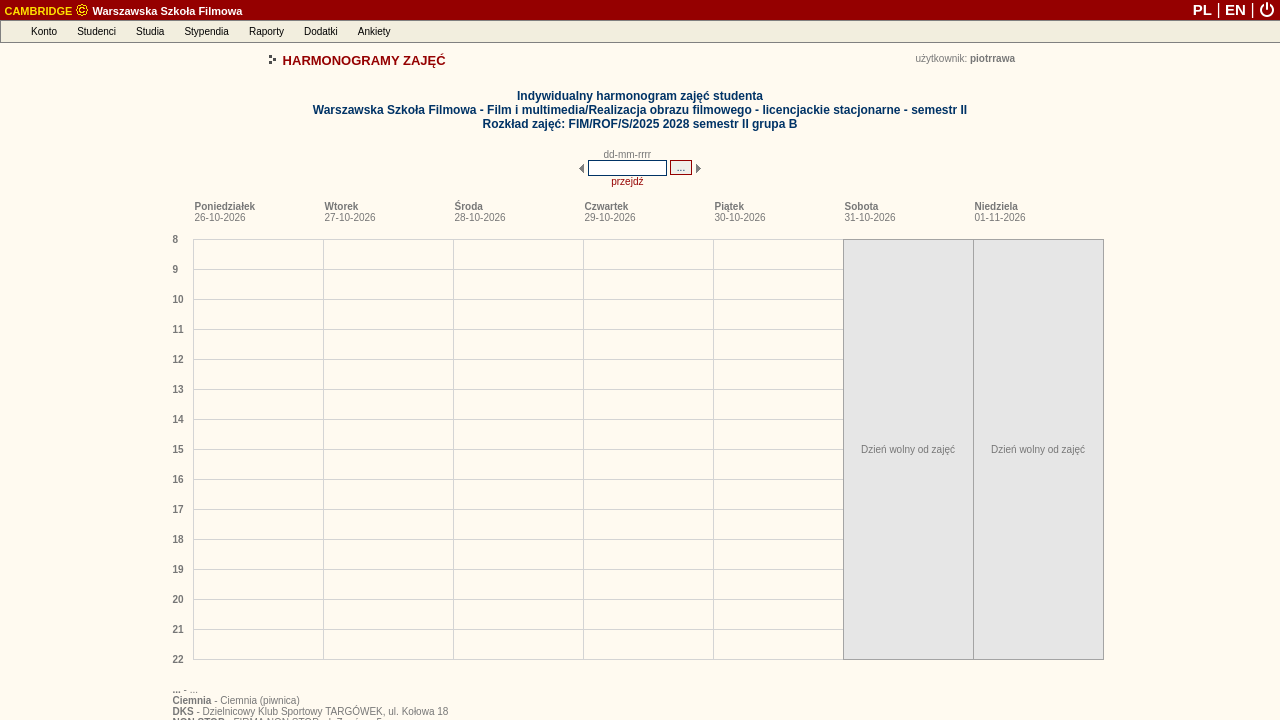
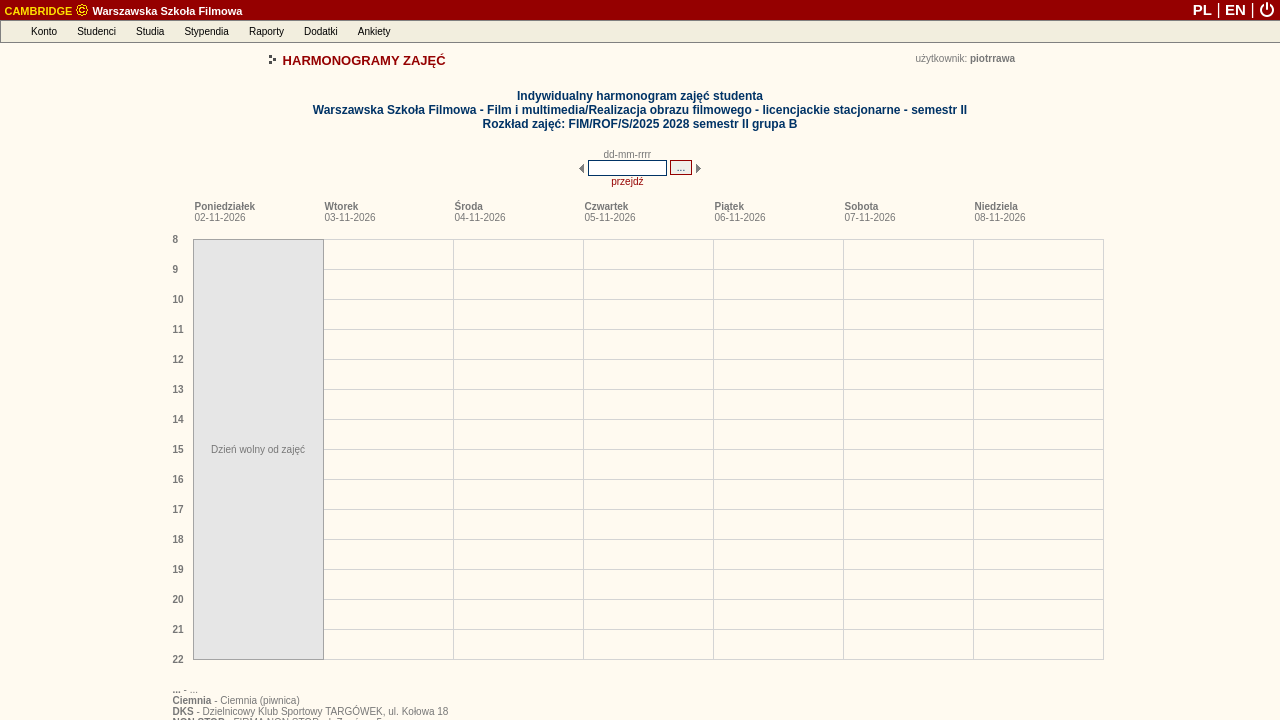
deploy: dfa69d0f82312febb651d8b8e029982c1f68af8a

Changed region(s): [[0.6562, 0.3056, 0.875, 0.9167], [0.125, 0.3056, 0.25, 0.9167]]

diff --git a/debug_harmonogram_page.html b/debug_harmonogram_page.html
@@ -163,8 +163,8 @@
 
 
 
-<link rel="stylesheet" type="text/css" href="/palio/html.run?_Instance=cambridge&amp;_PageID=4&amp;_SessionID=1731041&amp;_SessionKey=269158694&amp;ZoomView=&amp;DisplayMode=&amp;_CheckSum=-2140815481">
-<script language="javascript" type="text/javascript" src="/palio/html.run?_Instance=cambridge&amp;_PageID=5&amp;_SessionID=1731041&amp;_SessionKey=269158694&amp;_CheckSum=-1705363581"></script>
+<link rel="stylesheet" type="text/css" href="/palio/html.run?_Instance=cambridge&amp;_PageID=4&amp;_SessionID=1731126&amp;_SessionKey=1703680951&amp;ZoomView=&amp;DisplayMode=&amp;_CheckSum=-1011969393">
+<script language="javascript" type="text/javascript" src="/palio/html.run?_Instance=cambridge&amp;_PageID=5&amp;_SessionID=1731126&amp;_SessionKey=1703680951&amp;_CheckSum=1065005977"></script>
 
 
 
@@ -354,9 +354,9 @@ CambridgeMenuBar = new jsDOMenuBar("absolute", true)
 
 AccountMenu=new jsDOMenu(200, "", "absolute", false);
 
-AccountMenu.addMenuItem(new menuItem("Zmiana hasła", "", "/palio/html.run?_Instance=cambridge&amp;_PageID=11&amp;_SessionID=1731041&amp;_SessionKey=269158694&amp;_CheckSum=992488434"));
+AccountMenu.addMenuItem(new menuItem("Zmiana hasła", "", "/palio/html.run?_Instance=cambridge&amp;_PageID=11&amp;_SessionID=1731126&amp;_SessionKey=1703680951&amp;_CheckSum=-1200927478"));
 
-  AccountMenu.addMenuItem(new menuItem("Komunikator", "", "/palio/html.run?_Instance=cambridge&amp;_PageID=180&amp;_SessionID=1731041&amp;_SessionKey=269158694&amp;_CheckSum=-1665877321"));
+  AccountMenu.addMenuItem(new menuItem("Komunikator", "", "/palio/html.run?_Instance=cambridge&amp;_PageID=180&amp;_SessionID=1731126&amp;_SessionKey=1703680951&amp;_CheckSum=-2005887259"));
 
 
 
@@ -369,7 +369,7 @@ AccountMenu.addMenuItem(new menuItem("Yammer", "", "https://www.yammer.com/onlin
 
 AccountMenu.addMenuItem(new menuItem("-"));
 
-AccountMenu.addMenuItem(new menuItem("Wylogowanie", "", "https://student.szkolafilmowa.pl/palio/html.run?_Instance=cambridge&amp;_PageID=10012&amp;_Action=Logout&amp;_SessionID=1731041&amp;_SessionKey=269158694"));
+AccountMenu.addMenuItem(new menuItem("Wylogowanie", "", "https://student.szkolafilmowa.pl/palio/html.run?_Instance=cambridge&amp;_PageID=10012&amp;_Action=Logout&amp;_SessionID=1731126&amp;_SessionKey=1703680951"));
 
 CambridgeMenuBar.addMenuBarItem(new menuBarItem("Konto", AccountMenu));
 
@@ -382,12 +382,12 @@ StudentsMenu=new jsDOMenu(320, "", "absolute", false);
 
 
 
-StudentsMenu.addMenuItem(new menuItem("Moje dane", "", "/palio/html.run?_Instance=cambridge&amp;_PageID=185&amp;_SessionID=1731041&amp;_SessionKey=269158694&amp;_CheckSum=1486415804"));
+StudentsMenu.addMenuItem(new menuItem("Moje dane", "", "/palio/html.run?_Instance=cambridge&amp;_PageID=185&amp;_SessionID=1731126&amp;_SessionKey=1703680951&amp;_CheckSum=1225919104"));
 
 
 
 
-StudentsMenu.addMenuItem(new menuItem("Moje indeksy", "", "/palio/html.run?_Instance=cambridge&amp;_PageID=186&amp;_SessionID=1731041&amp;_SessionKey=269158694&amp;_CheckSum=2116874429"));
+StudentsMenu.addMenuItem(new menuItem("Moje indeksy", "", "/palio/html.run?_Instance=cambridge&amp;_PageID=186&amp;_SessionID=1731126&amp;_SessionKey=1703680951&amp;_CheckSum=-704700001"));
 
 
 
@@ -426,7 +426,7 @@ StudiesMenu=new jsDOMenu(250, "", "absolute", false);
 
 
 
-StudiesMenu.addMenuItem(new menuItem("Moje plany studiów", "", "/palio/html.run?_Instance=cambridge&amp;_PageID=258&amp;_SessionID=1731041&amp;_SessionKey=269158694&amp;_CheckSum=860064291"));
+StudiesMenu.addMenuItem(new menuItem("Moje plany studiów", "", "/palio/html.run?_Instance=cambridge&amp;_PageID=258&amp;_SessionID=1731126&amp;_SessionKey=1703680951&amp;_CheckSum=-1011108615"));
 
 
 
@@ -434,13 +434,13 @@ StudiesMenu.addMenuItem(new menuItem("Moje plany studiów", "", "/palio/html.run
 
 
 
-StudiesMenu.addMenuItem(new menuItem("Harmonogramy zajęć", "", "/palio/html.run?_Instance=cambridge&amp;_PageID=95&amp;_SessionID=1731041&amp;_SessionKey=269158694&amp;_CheckSum=954271982"));
+StudiesMenu.addMenuItem(new menuItem("Harmonogramy zajęć", "", "/palio/html.run?_Instance=cambridge&amp;_PageID=95&amp;_SessionID=1731126&amp;_SessionKey=1703680951&amp;_CheckSum=1909329806"));
 
-StudiesMenu.addMenuItem(new menuItem("Harmonogramy moich zajęć", "", "/palio/html.run?_Instance=cambridge&amp;_PageID=191&amp;_SessionID=1731041&amp;_SessionKey=269158694&amp;_CheckSum=1328929495"));
+StudiesMenu.addMenuItem(new menuItem("Harmonogramy moich zajęć", "", "/palio/html.run?_Instance=cambridge&amp;_PageID=191&amp;_SessionID=1731126&amp;_SessionKey=1703680951&amp;_CheckSum=638810821"));
 
-StudiesMenu.addMenuItem(new menuItem("Harmonogramy innych zajęć", "", "/palio/html.run?_Instance=cambridge&amp;_PageID=248&amp;_SessionID=1731041&amp;_SessionKey=269158694&amp;_CheckSum=-1504283900"));
+StudiesMenu.addMenuItem(new menuItem("Harmonogramy innych zajęć", "", "/palio/html.run?_Instance=cambridge&amp;_PageID=248&amp;_SessionID=1731126&amp;_SessionKey=1703680951&amp;_CheckSum=-1291458504"));
 
-StudiesMenu.addMenuItem(new menuItem("Harmonogramy zajętości sal", "", "/palio/html.run?_Instance=cambridge&amp;_PageID=269&amp;_SessionID=1731041&amp;_SessionKey=269158694&amp;_CheckSum=-440096189"));
+StudiesMenu.addMenuItem(new menuItem("Harmonogramy zajętości sal", "", "/palio/html.run?_Instance=cambridge&amp;_PageID=269&amp;_SessionID=1731126&amp;_SessionKey=1703680951&amp;_CheckSum=1633589465"));
 
 
 
@@ -470,9 +470,9 @@ CambridgeMenuBar.addMenuBarItem(new menuBarItem("Studia", StudiesMenu));
 ScholarshipsMenu=new jsDOMenu(230, "", "absolute", false);
 
 
-ScholarshipsMenu.addMenuItem(new menuItem("Moje stypendia", "", "/palio/html.run?_Instance=cambridge&amp;_PageID=187&amp;_SessionID=1731041&amp;_SessionKey=269158694&amp;_CheckSum=-1547634242"));
+ScholarshipsMenu.addMenuItem(new menuItem("Moje stypendia", "", "/palio/html.run?_Instance=cambridge&amp;_PageID=187&amp;_SessionID=1731126&amp;_SessionKey=1703680951&amp;_CheckSum=1659648190"));
 
-ScholarshipsMenu.addMenuItem(new menuItem("Mój numer rachunku", "", "/palio/html.run?_Instance=cambridge&amp;_PageID=380&amp;_SessionID=1731041&amp;_SessionKey=269158694&amp;_CheckSum=-1105177543"));
+ScholarshipsMenu.addMenuItem(new menuItem("Mój numer rachunku", "", "/palio/html.run?_Instance=cambridge&amp;_PageID=380&amp;_SessionID=1731126&amp;_SessionKey=1703680951&amp;_CheckSum=-1804063325"));
 
 
 
@@ -482,9 +482,9 @@ ScholarshipsMenu.addMenuItem(new menuItem("Mój numer rachunku", "", "/palio/htm
 ScholarshipsMenu.addMenuItem(new menuItem("-"));
 
 
-ScholarshipsMenu.addMenuItem(new menuItem("Fundusze stypendialne", "", "/palio/html.run?_Instance=cambridge&amp;_PageID=54&amp;_SessionID=1731041&amp;_SessionKey=269158694&amp;_CheckSum=-543644815"));
+ScholarshipsMenu.addMenuItem(new menuItem("Fundusze stypendialne", "", "/palio/html.run?_Instance=cambridge&amp;_PageID=54&amp;_SessionID=1731126&amp;_SessionKey=1703680951&amp;_CheckSum=-1576417941"));
 
-ScholarshipsMenu.addMenuItem(new menuItem("Rodzaje stypendiów", "", "/palio/html.run?_Instance=cambridge&amp;_PageID=55&amp;_SessionID=1731041&amp;_SessionKey=269158694&amp;_CheckSum=86813810"));
+ScholarshipsMenu.addMenuItem(new menuItem("Rodzaje stypendiów", "", "/palio/html.run?_Instance=cambridge&amp;_PageID=55&amp;_SessionID=1731126&amp;_SessionKey=1703680951&amp;_CheckSum=787930250"));
 
 
 
@@ -495,7 +495,7 @@ CambridgeMenuBar.addMenuBarItem(new menuBarItem("Stypendia", ScholarshipsMenu));
 ReportsMenu=new jsDOMenu(200, "", "absolute", false);
 
 
-ReportsMenu.addMenuItem(new menuItem("Generowanie raportów", "", "/palio/html.run?_Instance=cambridge&amp;_PageID=68&amp;_SessionID=1731041&amp;_SessionKey=269158694&amp;_CheckSum=47570580"));
+ReportsMenu.addMenuItem(new menuItem("Generowanie raportów", "", "/palio/html.run?_Instance=cambridge&amp;_PageID=68&amp;_SessionID=1731126&amp;_SessionKey=1703680951&amp;_CheckSum=-428609880"));
 
 
 
@@ -505,7 +505,7 @@ CambridgeMenuBar.addMenuBarItem(new menuBarItem("Raporty", ReportsMenu));
 
 AdditionalsMenu=new jsDOMenu(200, "", "absolute", false);
 
-AdditionalsMenu.addMenuItem(new menuItem("Forum internetowe", "", "/palio/html.run?_Instance=cambridge&amp;_PageID=8001&amp;_SessionID=1731041&amp;_SessionKey=269158694&amp;_CheckSum=1547605323"));
+AdditionalsMenu.addMenuItem(new menuItem("Forum internetowe", "", "/palio/html.run?_Instance=cambridge&amp;_PageID=8001&amp;_SessionID=1731126&amp;_SessionKey=1703680951&amp;_CheckSum=-1172173103"));
 
 
 
@@ -539,7 +539,7 @@ PollsMenu=new jsDOMenu(225, "", "absolute", false);
 
 
 
-PollsMenu.addMenuItem(new menuItem("Wypełnianie ankiet", "", "/palio/html.run?_Instance=cambridge&amp;_PageID=227&amp;_SessionID=1731041&amp;_SessionKey=269158694&amp;_CheckSum=1726495685"));
+PollsMenu.addMenuItem(new menuItem("Wypełnianie ankiet", "", "/palio/html.run?_Instance=cambridge&amp;_PageID=227&amp;_SessionID=1731126&amp;_SessionKey=1703680951&amp;_CheckSum=78460823"));
 
 
 CambridgeMenuBar.addMenuBarItem(new menuBarItem("Ankiety", PollsMenu));
@@ -576,7 +576,7 @@ CambridgeMenuBar.moveTo(0,20);
 <table width="100%" border="0" cellspacing="0" cellpadding="0" align="center">
 <tbody><tr class="top_belt">
 
-<td align="left" height="20"><b>&nbsp;<a class="belt" href="/palio/html.run?_Instance=cambridge&amp;_PageID=6&amp;_SessionID=1731041&amp;_SessionKey=269158694&amp;_CheckSum=-1074904956"><span class="belt_application">CAMBRIDGE</span> <img src="/palio/html.media?_Instance=cambridge&amp;_Option=Palio&amp;_ID=51&amp;_CheckSum=684598873" width="14" height="14" border="0" style="position:relative;top:-2px;vertical-align:bottom"> Warszawska Szkoła Filmowa</a></b></td>
+<td align="left" height="20"><b>&nbsp;<a class="belt" href="/palio/html.run?_Instance=cambridge&amp;_PageID=6&amp;_SessionID=1731126&amp;_SessionKey=1703680951&amp;_CheckSum=-865613128"><span class="belt_application">CAMBRIDGE</span> <img src="/palio/html.media?_Instance=cambridge&amp;_Option=Palio&amp;_ID=51&amp;_CheckSum=684598873" width="14" height="14" border="0" style="position:relative;top:-2px;vertical-align:bottom"> Warszawska Szkoła Filmowa</a></b></td>
 <td align="right">
 
 
@@ -587,13 +587,13 @@ CambridgeMenuBar.moveTo(0,20);
 
 
 
-<a href="/palio/html.run?_Instance=cambridge&amp;_PageID=6&amp;_SessionID=1731041&amp;_SessionKey=269158694&amp;SetLanguage=pl&amp;_CheckSum=1021153046" class="belt" style="font-size:15px;line-height:18px;text-decoration:none" title="polski"><b>PL</b></a>
+<a href="/palio/html.run?_Instance=cambridge&amp;_PageID=6&amp;_SessionID=1731126&amp;_SessionKey=1703680951&amp;SetLanguage=pl&amp;_CheckSum=1311985762" class="belt" style="font-size:15px;line-height:18px;text-decoration:none" title="polski"><b>PL</b></a>
 <span class="belt" style="font-size:16px">|</span>
-<a href="/palio/html.run?_Instance=cambridge&amp;_PageID=6&amp;_SessionID=1731041&amp;_SessionKey=269158694&amp;SetLanguage=en&amp;_CheckSum=-1381030967" class="belt" style="font-size:15px;line-height:18px;text-decoration:none" title="english"><b>EN</b></a>
+<a href="/palio/html.run?_Instance=cambridge&amp;_PageID=6&amp;_SessionID=1731126&amp;_SessionKey=1703680951&amp;SetLanguage=en&amp;_CheckSum=-1090198251" class="belt" style="font-size:15px;line-height:18px;text-decoration:none" title="english"><b>EN</b></a>
 <span class="belt" style="font-size:16px">|</span>
 
 
-<img src="/palio/html.media?_Instance=cambridge&amp;_Option=Palio&amp;_ID=94&amp;_CheckSum=-1316787974" style="cursor:pointer;vertical-align:bottom;margin-bottom:2px;margin-right:5px" alt="Wyloguj" title="Wyloguj" onclick="if(confirm('Czy na pewno chcesz się wylogować?'))window.location='https://student.szkolafilmowa.pl/palio/html.run?_Instance=cambridge&amp;_PageID=10012&amp;_Action=Logout&amp;_SessionID=1731041&amp;_SessionKey=269158694'">
+<img src="/palio/html.media?_Instance=cambridge&amp;_Option=Palio&amp;_ID=94&amp;_CheckSum=-1316787974" style="cursor:pointer;vertical-align:bottom;margin-bottom:2px;margin-right:5px" alt="Wyloguj" title="Wyloguj" onclick="if(confirm('Czy na pewno chcesz się wylogować?'))window.location='https://student.szkolafilmowa.pl/palio/html.run?_Instance=cambridge&amp;_PageID=10012&amp;_Action=Logout&amp;_SessionID=1731126&amp;_SessionKey=1703680951'">
 </td>
 
 </tr>
@@ -2351,16 +2351,16 @@ document.schedule_scroll_form.submit();
 }
 function goForward()
 {
-document.schedule_scroll_form._firstDayOfWeek.value = '02-11-2026';
+document.schedule_scroll_form._firstDayOfWeek.value = '09-11-2026';
 document.schedule_scroll_form.submit();
 }
 function goBackward()
 {
-document.schedule_scroll_form._firstDayOfWeek.value = '24-10-2026';
+document.schedule_scroll_form._firstDayOfWeek.value = '31-10-2026';
 document.schedule_scroll_form.submit();
 }
 </script>
-<form method="post" name="schedule_scroll_form" id="schedule_scroll_form" action="/palio/html.run?_Instance=cambridge&amp;_PageID=191&amp;_SessionID=1731041&amp;_SessionKey=269158694&amp;_RowID=6987&amp;_RowIDType=I&amp;_CheckSum=-73419374" onsubmit="return checkFrm_schedule_scroll_form(this)">
+<form method="post" name="schedule_scroll_form" id="schedule_scroll_form" action="/palio/html.run?_Instance=cambridge&amp;_PageID=191&amp;_SessionID=1731126&amp;_SessionKey=1703680951&amp;_RowID=6987&amp;_RowIDType=I&amp;_CheckSum=-1027978396" onsubmit="return checkFrm_schedule_scroll_form(this)">
 <div style="display:none;"><input type="hidden" name="_formSubmitted" value="yes"></div>
 <input type="hidden" name="_firstDayOfWeek">
 <table cellspacing="0" cellpadding="0" border="0" align="center">
@@ -3218,22 +3218,6 @@ return true;
 
 
 
-
-
-
-
-
-
-
-
-
-
-
-
-
-
-
-
 <br>
 
 
@@ -3252,60 +3236,6 @@ return true;
 
 
 
- 
- 
- 
-
-
-
-
-
-
-
-
-
-
-
-
-
-
-
-
-
-
-
-
-
-
-
-
-
-
-
-
-
-
-
-
-
-
-
-
-
-
-
-
-
-
-
-
-
-
-
-
-
-
-
 
 
 
@@ -3385,7 +3315,6 @@ return true;
 
 
 
-  
 
 
 
@@ -3859,7 +3788,7 @@ tipDivElement.style.visibility="hidden"
 <tbody><tr><td class="font">
 <b class="font">Poniedziałek</b><br>
 
-<span class="font">26-10-2026</span>
+<span class="font">02-11-2026</span>
 </td></tr>
 </tbody></table>
 </div>
@@ -3874,7 +3803,7 @@ tipDivElement.style.visibility="hidden"
 <tbody><tr><td class="font">
 <b class="font">Wtorek</b><br>
 
-<span class="font">27-10-2026</span>
+<span class="font">03-11-2026</span>
 </td></tr>
 </tbody></table>
 </div>
@@ -3889,7 +3818,7 @@ tipDivElement.style.visibility="hidden"
 <tbody><tr><td class="font">
 <b class="font">Środa</b><br>
 
-<span class="font">28-10-2026</span>
+<span class="font">04-11-2026</span>
 </td></tr>
 </tbody></table>
 </div>
@@ -3904,7 +3833,7 @@ tipDivElement.style.visibility="hidden"
 <tbody><tr><td class="font">
 <b class="font">Czwartek</b><br>
 
-<span class="font">29-10-2026</span>
+<span class="font">05-11-2026</span>
 </td></tr>
 </tbody></table>
 </div>
@@ -3919,7 +3848,7 @@ tipDivElement.style.visibility="hidden"
 <tbody><tr><td class="font">
 <b class="font">Piątek</b><br>
 
-<span class="font">30-10-2026</span>
+<span class="font">06-11-2026</span>
 </td></tr>
 </tbody></table>
 </div>
@@ -3934,7 +3863,7 @@ tipDivElement.style.visibility="hidden"
 <tbody><tr><td class="font">
 <b class="font">Sobota</b><br>
 
-<span class="font">31-10-2026</span>
+<span class="font">07-11-2026</span>
 </td></tr>
 </tbody></table>
 </div>
@@ -3949,7 +3878,7 @@ tipDivElement.style.visibility="hidden"
 <tbody><tr><td class="font">
 <b class="font">Niedziela</b><br>
 
-<span class="font">01-11-2026</span>
+<span class="font">08-11-2026</span>
 </td></tr>
 </tbody></table>
 </div>
@@ -3975,35 +3904,7 @@ tipDivElement.style.visibility="hidden"
 <div style="
 position:absolute;
 top:0;
-left:800;
-width:129;
-height:419.00;
-layer-background-color:#E6E6E6;
-background-color:#E6E6E6;
-border:1px solid #A4A4A4;
-z-index:0;">
-<table cellspacing="0" cellpadding="0" align="center" width="129">
-<tbody><tr><td width="129" align="center" class="font" valign="middle" height="419.00">Dzień wolny od zajęć</td></tr>
-</tbody></table>
-</div>
-
-
-
-
-
-
-
-
-
-
-
-
-
-
-<div style="
-position:absolute;
-top:0;
-left:670;
+left:20;
 width:129;
 height:419.00;
 layer-background-color:#E6E6E6;
@@ -4040,8 +3941,8 @@ z-index:0;">
 <td align="right">
 <table cellspacing="0" cellpadding="2" border="0">
 <tbody><tr>
-<td valign="middle"><a class="link" href="/palio/html.run?_Instance=cambridge&amp;_PageID=96&amp;_SessionID=1731041&amp;_SessionKey=269158694&amp;_RowID=6987&amp;_RowIDType=I&amp;_firstDayOfWeek=26-10-2026&amp;_CheckSum=-1076802735" target="_blank">drukuj</a></td>
-<td valign="middle"><a class="link" href="/palio/html.run?_Instance=cambridge&amp;_PageID=96&amp;_SessionID=1731041&amp;_SessionKey=269158694&amp;_RowID=6987&amp;_RowIDType=I&amp;_firstDayOfWeek=26-10-2026&amp;_CheckSum=-1076802735" target="_blank"><img src="/palio/html.media?_Instance=cambridge&amp;_Option=Palio&amp;_ID=26&amp;_CheckSum=1936112049" awidth="16" height="14" alt="drukuj" title="drukuj" border="0"></a></td>
+<td valign="middle"><a class="link" href="/palio/html.run?_Instance=cambridge&amp;_PageID=96&amp;_SessionID=1731126&amp;_SessionKey=1703680951&amp;_RowID=6987&amp;_RowIDType=I&amp;_firstDayOfWeek=02-11-2026&amp;_CheckSum=-1602600174" target="_blank">drukuj</a></td>
+<td valign="middle"><a class="link" href="/palio/html.run?_Instance=cambridge&amp;_PageID=96&amp;_SessionID=1731126&amp;_SessionKey=1703680951&amp;_RowID=6987&amp;_RowIDType=I&amp;_firstDayOfWeek=02-11-2026&amp;_CheckSum=-1602600174" target="_blank"><img src="/palio/html.media?_Instance=cambridge&amp;_Option=Palio&amp;_ID=26&amp;_CheckSum=1936112049" awidth="16" height="14" alt="drukuj" title="drukuj" border="0"></a></td>
 </tr>
 </tbody></table>
 </td>
@@ -4073,7 +3974,7 @@ z-index:0;">
 
 
 
-<input type="button" name="jump_action" value="Powrót do listy harmonogramów zajęć" class="button" onclick="window.location='/palio/html.run?_Instance=cambridge&amp;_PageID=191&amp;_SessionID=1731041&amp;_SessionKey=269158694&amp;_CheckSum=1328929495'">
+<input type="button" name="jump_action" value="Powrót do listy harmonogramów zajęć" class="button" onclick="window.location='/palio/html.run?_Instance=cambridge&amp;_PageID=191&amp;_SessionID=1731126&amp;_SessionKey=1703680951&amp;_CheckSum=638810821'">
 
 
 
@@ -4098,7 +3999,7 @@ z-index:0;">
 grayscaleImagesIE10Plus();
 </script>
 
-<p align="right" class="font"><i style="color:#aaaaaa">Czas generowania strony 135 ms</i></p>
+<p align="right" class="font"><i style="color:#aaaaaa">Czas generowania strony 132 ms</i></p>
 
 
 </body></html>
